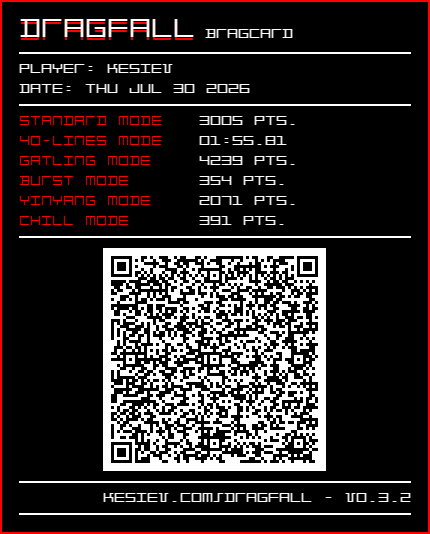
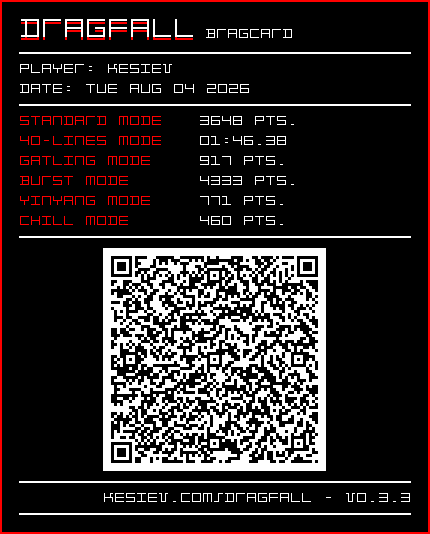
:abcd: Updated DragBoard(TM) samples

diff --git a/README.md b/README.md
@@ -123,7 +123,7 @@ Our trusty Preuk asked on Discord for a highscore page to list scores from all m
     <p>My launch day BragCard&trade;! In my defense, I declare that I cleared my highscores and played each mode just once.</p>
 </div>
 
-You can ~~brag~~ share your highscores with friends via [BragCards](markdown/bragcard.png) (Old-school forums inspired images), [BragLinks](https://www.kesiev.com/dragfall/#BRGQlJHOjAuMTpEUkY6MC4zLjI7S2VzaWVWOjE3ODU0MTYwMDM2MjA7U1QvMS8zMDA1OjQwLzEvMTE1ODE2LjU5OTk5OTk5OTkyOkdULzEvNDIzOTpCVS8xLzM1NDpZWS8xLzIwNzE6Q0gvMS8zOTE7NTA4NzM0NTc1NDIxMzYzOA==) (Plain weblinks), or **BragQRs** (QR-Codes displayed in-game). BragQRs just contain a BragLink, so they can be scanned with any QR-Code scanner. Anyway, I've slammed a BragQR reader in DRAGFALL too, so you can easily scan multiple of them in-game.
+You can ~~brag~~ share your highscores with friends via [BragCards](markdown/bragcard.png) (Old-school forums inspired images), [BragLinks](https://www.kesiev.com/dragfall/#BRGQlJHOjAuMTpEUkY6MC4zLjM7S2VzaWVWOjE3ODU4MjU5OTMyNzA7U1QvMi8zNjQ4OjQwLzEvMTA2Mzg5LjgwMDAwMDAwMDI4OkdULzIvOTE3OkJVLzIvNDMzMzpZWS8yLzc3MTpDSC8xLzQ2MDs5ODgzNjI0MDk0ODgxMg==) (Plain weblinks), or **BragQRs** (QR-Codes displayed in-game). BragQRs just contain a BragLink, so they can be scanned with any QR-Code scanner. Anyway, I've slammed a BragQR reader in DRAGFALL too, so you can easily scan multiple of them in-game.
 
 Shared scores (called Brags) are just aside your regular highscores. On the mode selection screen, you can see who is bragging about their highscore. If you've beaten him, it will be shamefully grayed out, so you can _feed your ego_ every time you see that.
 

diff --git a/TODO.md b/TODO.md
@@ -1,9 +1,8 @@
 # TODO
  
- - [ ] Make an updated BragCard&trade; and BragLink&trade; sample for the README.md
-
 ## Done
 
+ - [x] Make an updated BragCard&trade; and BragLink&trade; sample for the README.md (0.3.3)
  - [x] Harder later levels
  - [x] Add third color
  - [x] Add BragQR Reader
